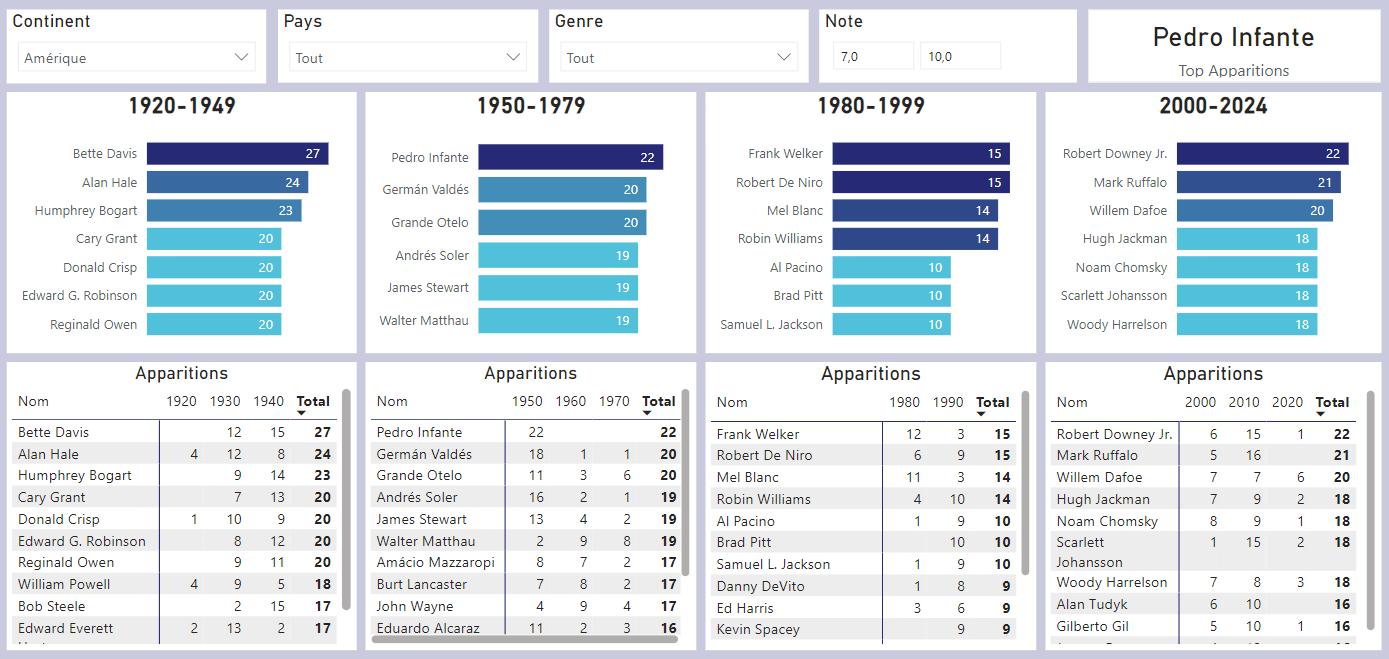
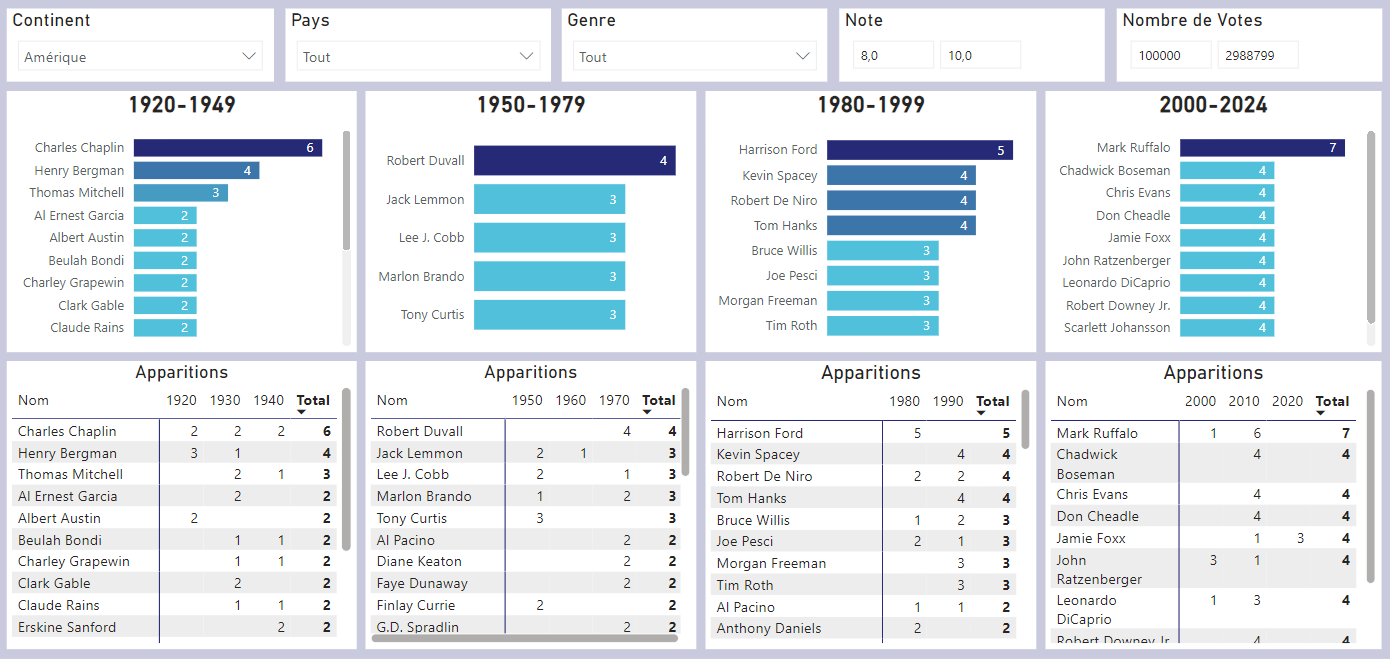
up kpi

diff --git a/donnees/md/analyse_kpi.md b/donnees/md/analyse_kpi.md
@@ -19,22 +19,24 @@ Les principales analyses du dashboard présenteront :
 ## 📋 Méthodologie
 ### Étapes clés :
 
-1. **Préparation des données :**
+1. **Préparation des données Power BI:**
    - Nettoyage des datasets IMDb et TMDb pour éliminer les doublons et les valeurs manquantes.
    - Standardisation des formats de colonnes (dates, durées, notes, etc.).
    - Fusion des datasets pour enrichir les analyses (liens entre acteurs, films et séries).
+   - Mise en place des relations entre les tables (Schéma en Etoile).
+   - Création des mesures utiles pour les KPI.
 
-2. **Exploration et création des KPI :**
-   - Définition des indicateurs à suivre pour répondre aux objectifs.
-   - Extraction et transformation des données nécessaires.
-
-3. **Construction des visualisations Power BI :**
+2. **Construction des visualisations Power BI :**
    - Création de rapports dynamiques et interactifs.
    - Mise en place de filtres et slicers pour explorer les données en détail.
 
 ---
 
 ##  **Schéma de liaison des Tables sur Power BI**
+
+![schema_tables](../images/kpi/0_schema_tables.PNG)
+<br>
+
 ---
 
 ## Périmètre d'analyse
@@ -577,14 +579,39 @@ L’analyse montre une évolution marquée du rôle des acteurs entre le cinéma
 <br>
 
 **Périmètre** :
-- L'analyse ci dessous porte sur les films avec notes comprises entre 7 et 10, de façon à mettre en avant les acteurs qui apparaissent dans les oeuvres de qualité.
+- L'analyse ci dessous porte sur les films avec notes comprises entre 8 et 10, et entre 100000 et max pour le nombre de votes de façon à mettre en avant les acteurs qui apparaissent dans les oeuvres de qualité.
 - Dans le dashboard PowerBi, une analyse plus poussée permettre d'identifier les apparitions des acteurs ***selon le continent, le pays, les genres de film, les notes***.
 <br>
 
-#### En Amérique
+#### Au Global
+
+![top_global](../images/kpi/6_top_global.PNG)
+***Source : ImdB title.basics / name.basics***
+<br>
+
+#### En Amerique
 
 ![top_amerique](../images/kpi/6_top_amerique.PNG)
 ***Source : ImdB title.basics / name.basics***
+<br>
+
+#### En Europe
+
+![top_amerique](../images/kpi/6_top_europe.PNG)
+***Source : ImdB title.basics / name.basics***
+<br>
+
+#### En France
+
+![top_france](../images/kpi/6_top_france.PNG)
+***Source : ImdB title.basics / name.basics***
+<br>
+
+#### En Inde et au Japon
+
+![top_inde_japon](../images/kpi/6_top_inde_japon.PNG)
+***Source : ImdB title.basics / name.basics***
+<br>
 
 ---
 
